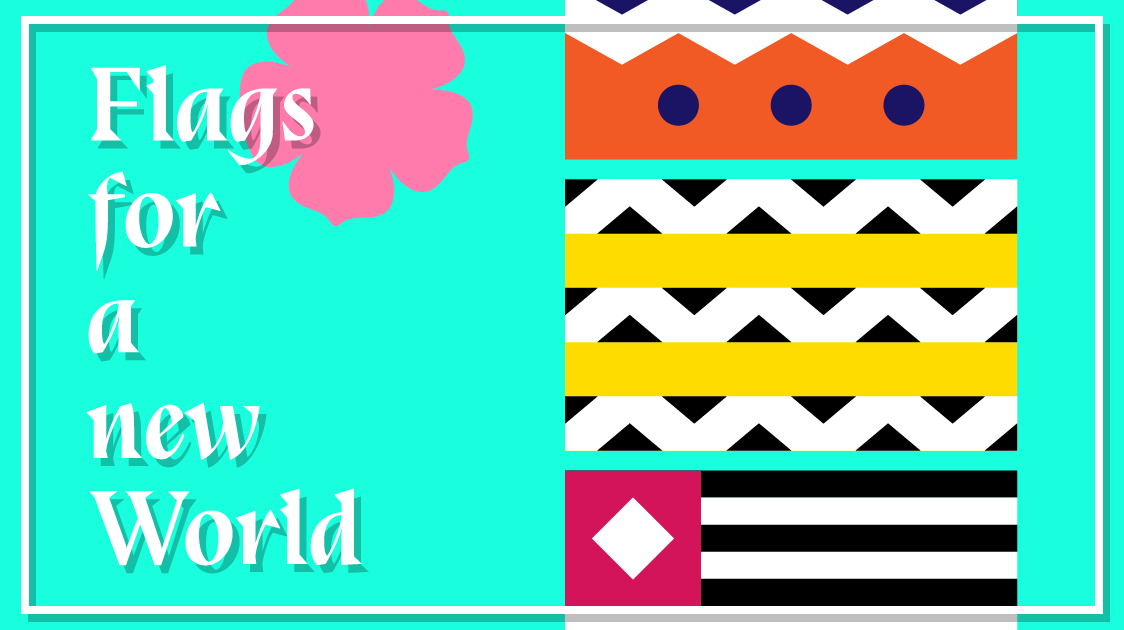
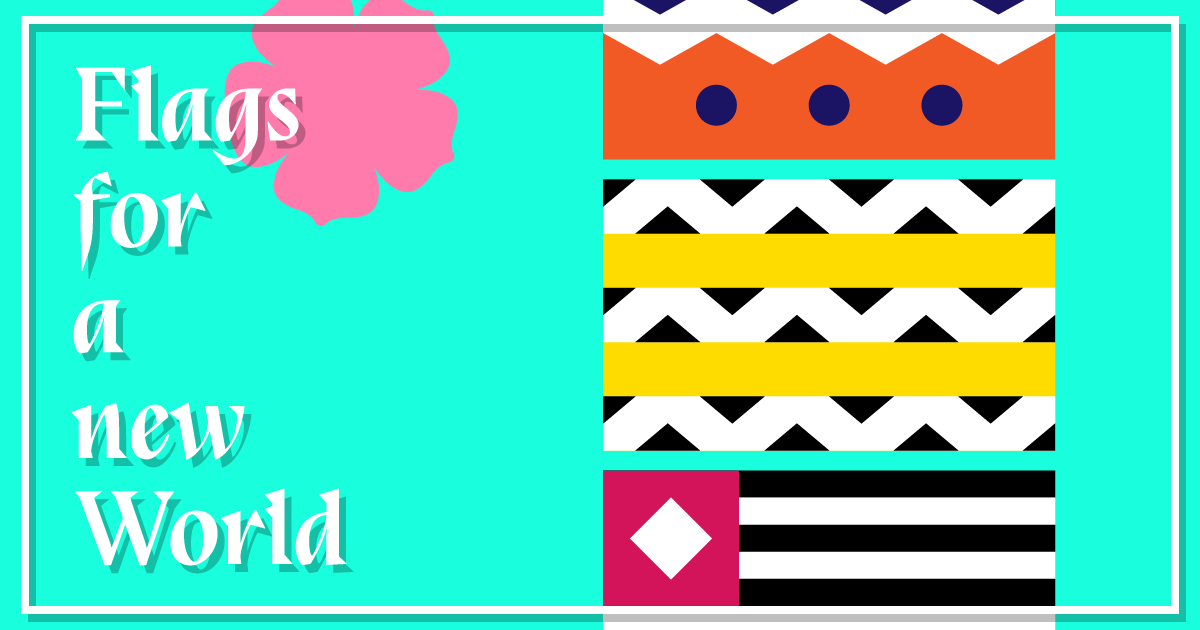
fb og_img

diff --git a/index.html b/index.html
@@ -14,7 +14,7 @@
     <meta property="og:url" content="https://aersosi.github.io/" />
     <meta property="og:image" content="https://aersosi.github.io/dist/img/fb_og.png" />
     <meta property="og:image:type" content="image/png" />
-    <meta property="og:image:width" content="1124" />
+    <meta property="og:image:width" content="1200" />
     <meta property="og:image:height" content="630" />
 
     <meta property="og:locality" content="Hamburg" />
